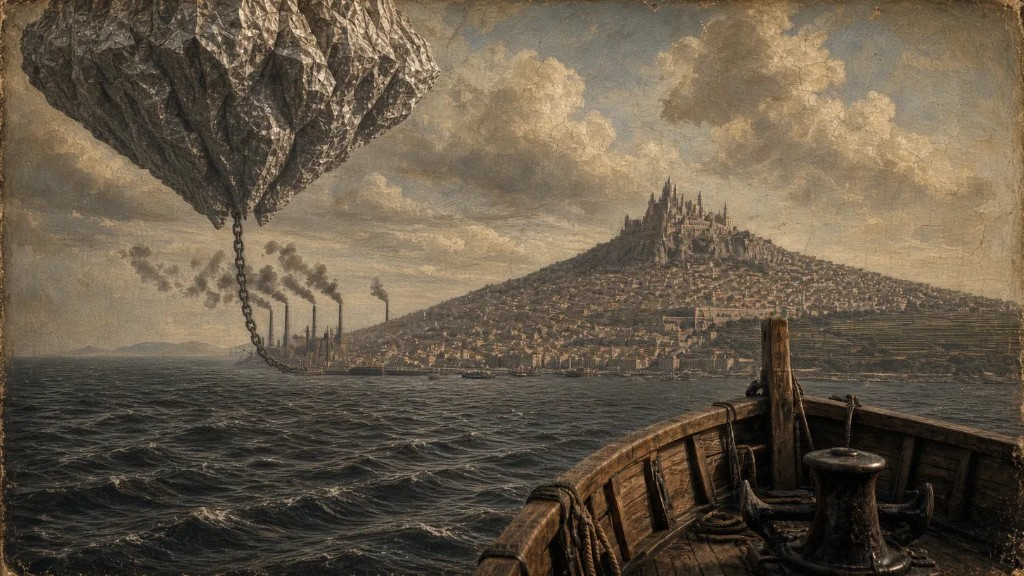
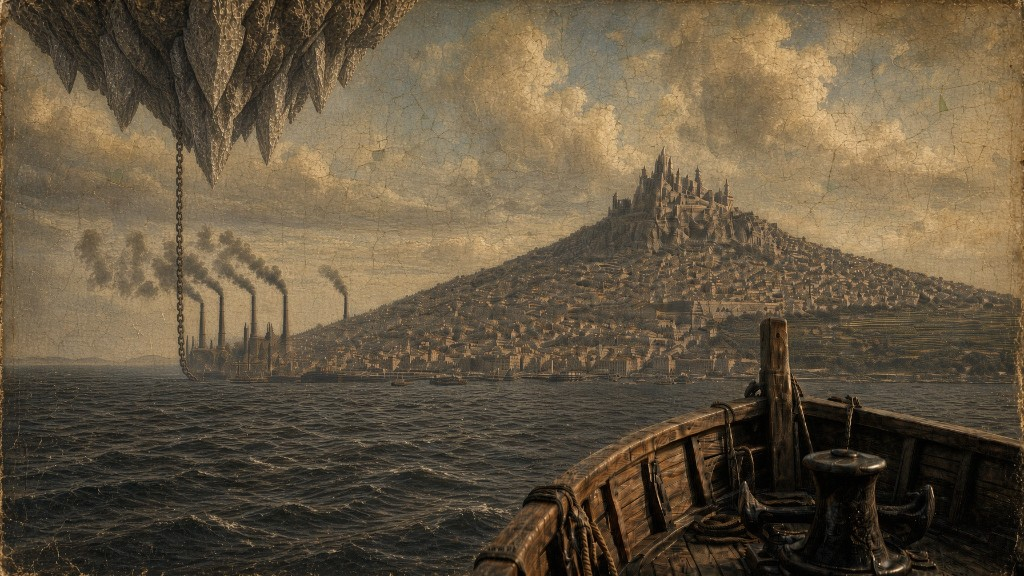
Home: replace chained-city splash image

diff --git a/index.html b/index.html
@@ -6,6 +6,6 @@
 <link rel="stylesheet" href="assets/guide.css?v=chained1"></head><body><header class="gh"><div class="gh-in"><a class="brand" href="index.html">Ironport</a>
 <details class="burger"><summary aria-label="Menu">Menu</summary><nav aria-label="Guide"><ul class="nav"><li><details><summary>The City</summary><ul><li><a href="city.html">Overview</a></li><li><a href="districts/index.html">Districts</a></li><li><a href="map.html">The Map</a></li></ul></details></li><li><details><summary>Powers</summary><ul><li><a href="crown.html">The Crown</a></li><li><a href="houses/index.html">Noble Houses</a></li><li><a href="factions/index.html">Factions and Guilds</a></li></ul></details></li><li><a class="top" href="people.html">People</a></li><li><details><summary>Faith and History</summary><ul><li><a href="faith.html">The Pantheon</a></li><li><a href="history.html">History of Edenn</a></li></ul></details></li><li><details><summary>Life in Ironport</summary><ul><li><a href="zephyrite.html">Zephyrite</a></li><li><a href="calendar.html">Calendar and Holidays</a></li></ul></details></li><li><details><summary>Reference</summary><ul><li><a href="sigils-and-seals.html">Sigils and Seals</a></li><li><a href="catalog.html">Symbol Catalog</a></li></ul></details></li></ul></nav></details>
 <nav class="wide" aria-label="Guide"><ul class="nav"><li><details><summary>The City</summary><ul><li><a href="city.html">Overview</a></li><li><a href="districts/index.html">Districts</a></li><li><a href="map.html">The Map</a></li></ul></details></li><li><details><summary>Powers</summary><ul><li><a href="crown.html">The Crown</a></li><li><a href="houses/index.html">Noble Houses</a></li><li><a href="factions/index.html">Factions and Guilds</a></li></ul></details></li><li><a class="top" href="people.html">People</a></li><li><details><summary>Faith and History</summary><ul><li><a href="faith.html">The Pantheon</a></li><li><a href="history.html">History of Edenn</a></li></ul></details></li><li><details><summary>Life in Ironport</summary><ul><li><a href="zephyrite.html">Zephyrite</a></li><li><a href="calendar.html">Calendar and Holidays</a></li></ul></details></li><li><details><summary>Reference</summary><ul><li><a href="sigils-and-seals.html">Sigils and Seals</a></li><li><a href="catalog.html">Symbol Catalog</a></li></ul></details></li></ul></nav></div></header><main class="gm"><h1 class="title">Ironport</h1><p class="sub">The Chained City. A player guide.</p>
-<figure class="splash"><img src="images/chained-city.jpg" width="1024" height="576" alt="From a ship deck toward Ironport harbor, with the skyland of Unus held by the Great Chain."></figure>
+<figure class="splash"><img src="images/chained-city.jpg?v=2" width="1024" height="576" alt="From a ship deck toward Ironport harbor, with the skyland of Unus held by the Great Chain."></figure>
 <p class="lead">The year is 1487 the month of Ventis (The Month of Winds) in the industrial capital of the Kingdom of Edenn. It is a city of staggering verticality and arcane smog, built beneath the massive, floating skyland of Unus, which is physically anchored to the earth by the Great Chain. Magic and machinery collide here, fueled by Zephyrite, a rare, opalescent crystal mined from the skylands. It helps channel arcane conductivity and powers the city’s infrastructure. This harbor city has a staggering nine districts. All of which are teeming with life from all over the world of Andala. Ironport, the proud capital city, stands like a mighty mountain of industry balancing atop a fine needle. A slight breeze or gentle push in any way could send it toppling in a direction of religious doctrine or arcane innovation.</p><ul class="cards"><li><a href="city.html"><strong>The City</strong><span>Ironport at a glance, its eight districts, the Undercity and the chained skyland of Unus.</span></a></li><li><a href="map.html"><strong>The Map</strong><span>The Plan of the City of Ironport, with every public place of note.</span></a></li><li><a href="crown.html"><strong>Powers</strong><span>The dying king, the three heirs, the noble houses and the guilds that back them.</span></a></li><li><a href="factions/index.html"><strong>Factions and Guilds</strong><span>Knights, merchants, priests, mages, thieves and pirates.</span></a></li><li><a href="people.html"><strong>Notable People</strong><span>Who is who in each district.</span></a></li><li><a href="faith.html"><strong>The Pantheon</strong><span>The gods of Mount Celestia and the faiths of the city.</span></a></li><li><a href="history.html"><strong>History of Edenn</strong><span>From the Primordials to the chaining of Unus.</span></a></li><li><a href="zephyrite.html"><strong>Life in Ironport</strong><span>Zephyrite, the months of the year and the city&#x27;s holidays.</span></a></li><li><a href="sigils-and-seals.html"><strong>Sigils and Seals</strong><span>Every faction sigil and family seal.</span></a></li></ul></main><footer class="gf">A player guide to the city of Ironport.</footer><script>document.querySelectorAll('.nav details').forEach(d=>d.addEventListener('toggle',()=>{if(d.open)document.querySelectorAll('.nav details').forEach(o=>{if(o!==d)o.open=false})}));
 document.addEventListener('click',e=>{if(!e.target.closest('.nav details'))document.querySelectorAll('.nav details').forEach(o=>o.open=false)});</script></body></html>
